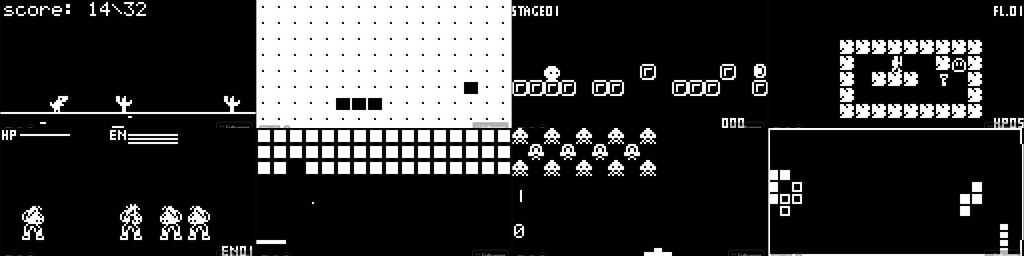
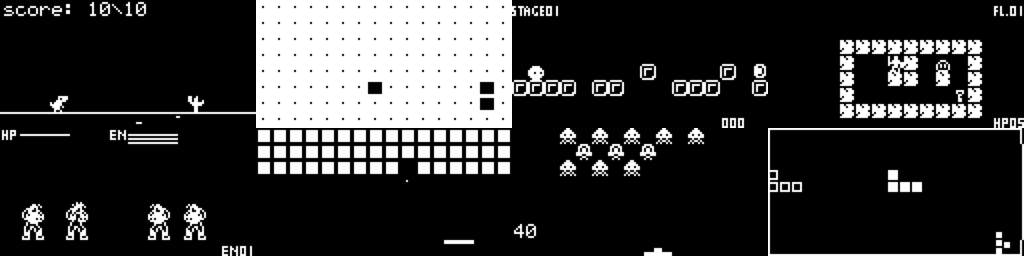
add "clean" thumbnails without webgl emu overlay

diff --git a/CLAUDE.md b/CLAUDE.md
@@ -6184,6 +6184,48 @@ of scope).
   unmodified ports of upstream's own already-working algorithms, so risk
   is low, but worth a direct check if anything looks off.
 
+## Menu thumbnail atlas fully regenerated from a sibling project's clean screenshots
+
+Every one of the 40 thumbnails documented above (added incrementally,
+game by game, across this whole session) had been captured via this
+project's own Puppeteer/WebGL test harness - a real browser page, not a
+bare emulator window. Asked directly to redo them, since the harness's
+own on-page UI (the F6 perf overlay's CPU/GPU bars when left toggled on,
+the page's own "FPS: NN"/info-icon readout and "Fullscreen" button baked
+into the bottom-left/bottom-right corners of every capture) had been
+bleeding into some of the saved thumbnails instead of being cropped out
+cleanly every time.
+
+Rather than re-capture all 40 games again through the same browser
+harness (repeating the same contamination risk), reused the sibling
+`c:\github\Tinyjoypad_SDL` project's own `metadata/screenshots/` folder -
+40 real gameplay screenshots, one per game, already genuinely clean (a
+native SDL window capture, no browser chrome of any kind) - confirmed by
+direct inspection of several before trusting the whole batch. Confirmed
+via a scripted diff that this project's own 40 `addGame()` menu titles
+(`menuGameList.c`) and that folder's own 40 filenames are an exact 1:1
+match (same title strings, same count) - not just a name-similarity
+guess. Each source image is 640x360 (the same native resolution this
+project's own captures already used) with the identical 20px top/bottom
+black letterbox convention already established here (confirmed both
+strips read as pure black via ImageMagick's own mean-pixel-value check
+before cropping) - so the existing crop-to-640x320-then-downscale-to-
+256x128 pipeline applied unchanged, no new asset-processing step needed.
+
+Rebuilt both atlas textures completely from scratch (not patched cell-
+by-cell) - `assets/thumbnails.png` (the 4x8, 32-cell first atlas) and
+`assets/thumbnails2.png` (the 4x2, 8-cell second atlas, needed only
+because Vircon32 caps a single texture at 1024x1024 - see this file's
+own earlier history for why a second texture exists at all) - composited
+in the exact same `addGame()` registration order every prior thumbnail
+addition already relied on (region id == registration index, first 32
+games in the first atlas, the remaining 8 in the second). Verified via
+Puppeteer across every one of the menu's 5 pages that every thumbnail
+still displays correctly and in the right position (spot-checked 2048,
+Falling Blocks, NumberPlace, Tiny Minez, and the last page's Tiny Tris/
+Tiny Rog/UFO/Wren Rollercoaster row) with no leftover browser-chrome
+artifacts in any of them.
+
 ## Licensing
 
 Tiny Invaders v4.2 is GPLv3 (its `tinyJoypadUtils`/driver lineage). Since a
